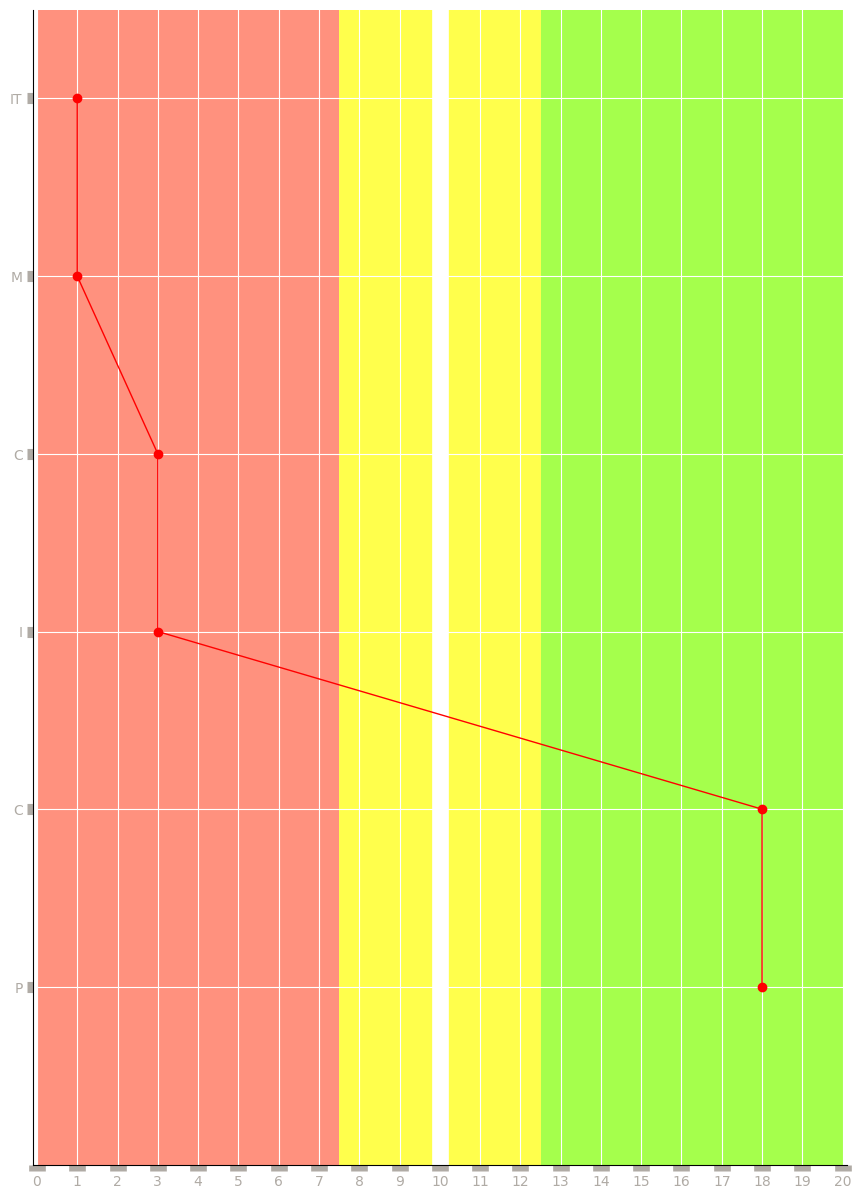
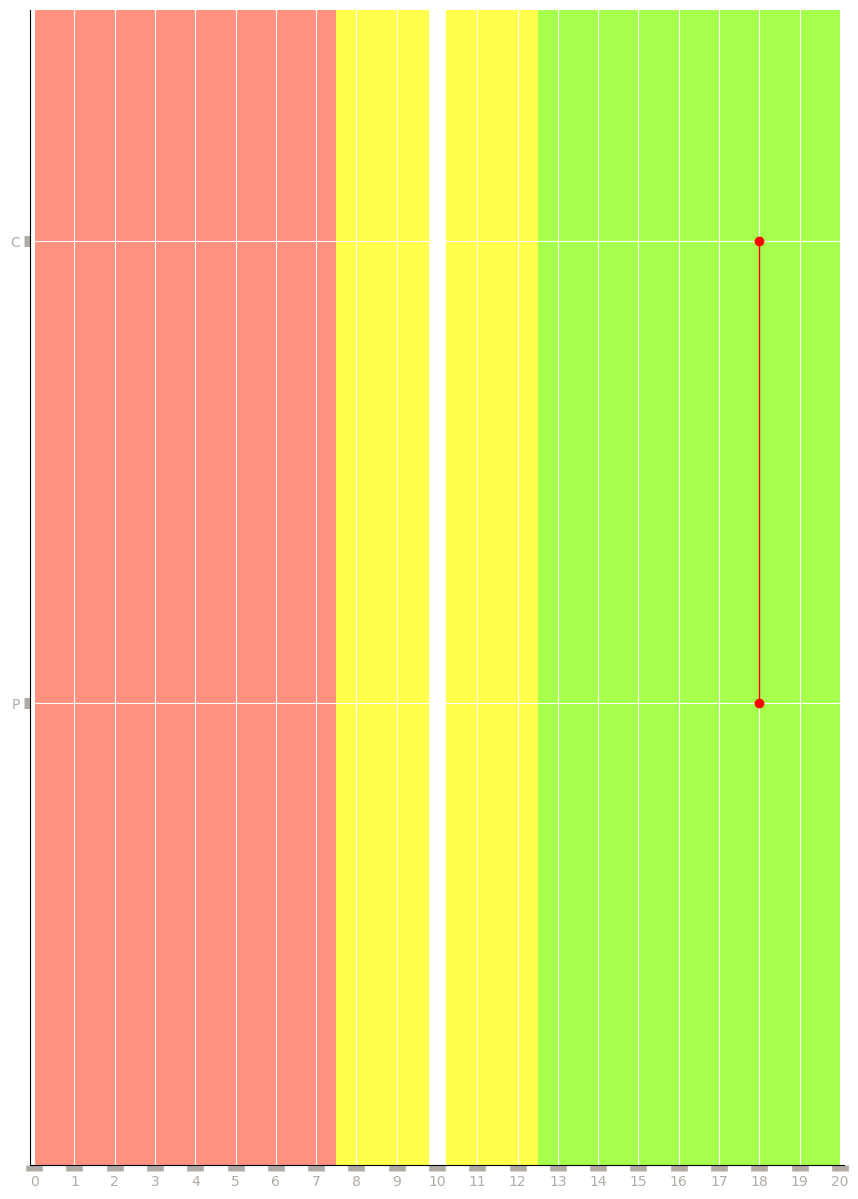
tmp image save fix

diff --git a/src/main/python/controladores/ReporteController.py b/src/main/python/controladores/ReporteController.py
@@ -34,8 +34,9 @@ class ReporteController(QtWidgets.QWidget, ControllerModel):
 		tempUrl = os.path.join(tmpdir, "reporte.html")
 		cssUrl = APPCTXT().get_resource("./vistas/Reporte/reporte.css")
 		copyfile(cssUrl, os.path.join(tmpdir, 'reporte.css'))
-		imageUrl = APPCTXT().get_resource("./vistas/Reporte/reporte.png")
-		copyfile(imageUrl, os.path.join(tmpdir, 'reporte.png'))
+		imageUrl = os.path.join(tmpdir, 'reporte.png')
+		# imageUrl = APPCTXT().get_resource("./vistas/Reporte/reporte.png")
+		# copyfile(imageUrl, os.path.join(tmpdir, 'reporte.png'))
 		logoUrl = APPCTXT().get_resource("./vistas/Reporte/logoReporte.png")
 		copyfile(logoUrl, os.path.join(tmpdir, 'logoReporte.png'))
 		print(tmpdir)
@@ -137,8 +138,11 @@ class ReporteController(QtWidgets.QWidget, ControllerModel):
 		plt.xlim(-0.1, 20.1)
 		plt.ylim(-1,len(escalaresLabel)-0.5)
 		plt.plot(escalares, yPos, marker = 'o', color = 'Red', linewidth=1)
+		if os.path.isfile(self.image):
+			os.remove(self.image)
 		plt.savefig(self.image, bbox_inches='tight')
 		plt.clf() #con esta linea no se sobreescriben puntos en la grafica al actualizar los datos de las pruebas
+		plt.close(fig)
 
 	
 	def createTableHeaders(self, encabezados):
@@ -360,7 +364,7 @@ class ReporteController(QtWidgets.QWidget, ControllerModel):
 
 		### uncomment for image
 		escalares = [int(x) for x in escalares]
-
+		print(escalaresLabel, escalares)
 		#Se crean las imagenes a mostrar
 		self.createTableImg(escalares, escalaresLabel)
 		
